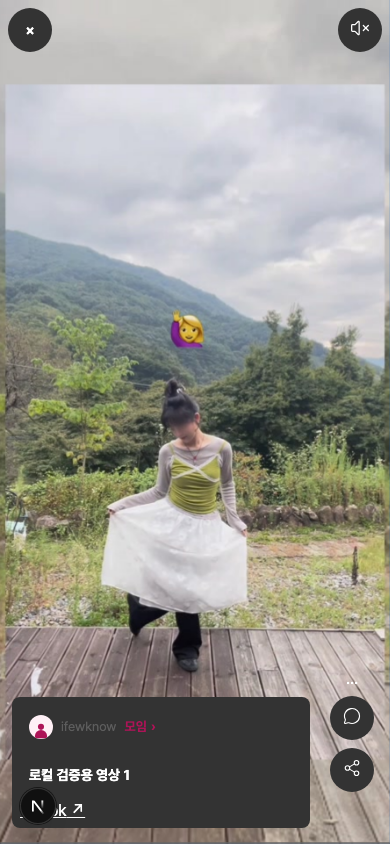
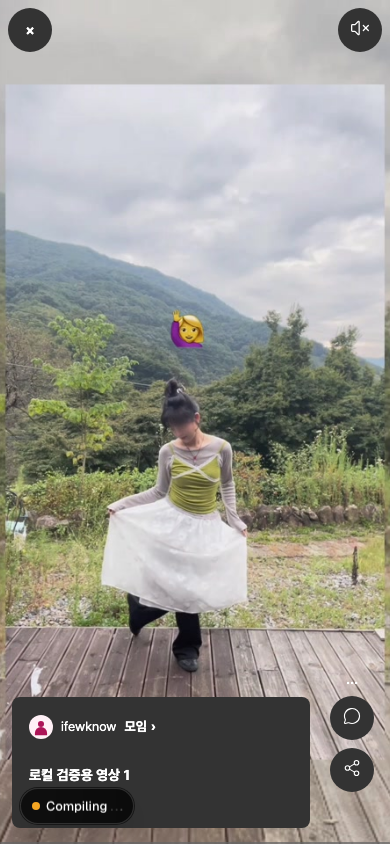
Fit portrait videos to the viewport without stretching

diff --git a/apps/web/features/home/ui/home-shorts.module.css b/apps/web/features/home/ui/home-shorts.module.css
@@ -116,3 +116,9 @@
 .feedCaption a,.feedCaption button { color:inherit; }
 .feedCaption button[aria-expanded=true] { max-height:35dvh; overflow:auto; }
 .expandedCaption { max-height:35dvh; overflow:auto; overscroll-behavior:contain; white-space:pre-wrap; overflow-wrap:anywhere; }
+.slide { container-type:size; overflow:hidden; }
+.slide .mediaFrame iframe { position:absolute; left:50%; top:50%; width:max(100cqw,56.25cqh); height:max(100cqh,177.7778cqw); transform:translate(-50%,-50%); }
+.feedCaption,.feedRail { z-index:1; }
+.feedCaption { background:var(--color-shortform-control); }
+.feedCaption .viewerCreatorLink,.feedCaption button { justify-content:start; min-height:var(--min-target); background:transparent; color:var(--color-surface); }
+.feedCaption .creatorName,.feedCaption .creatorGo { color:inherit; }

diff --git a/DESIGN.md b/DESIGN.md
@@ -2867,3 +2867,4 @@ D-C token ownership: `FanHeading variant="campaign"` owns the 18px/700 mobile an
 HEADER-TIER-COMPACT-1120 · 모바일 두 줄 배치를 한 줄로 변경한다. 하트·등급·포인트 링크는 오른쪽 도구 바로 앞에서 내용 폭만 차지하며 최대 182px이다. 남은 실제 폭에 맞춰 등급 글자가 먼저 줄고 전체 등급과 정확한 잔액은 링크의 접근성 이름에 제공한다.
 
 2026-11-21 숏폼 피드는 사용자가 선택한 영상부터 전체 높이로 열고 현재 영상만 자동 재생한다. 하단에는 원문과 크리에이터를, 오른쪽에는 반응과 소리 조절을 배치한다. 목록 뷰어의 기존 수동 재생 규칙은 피드 밖에서 적용한다.
+세로 피드에서 영상 iframe은 9:16 원본 비율을 유지한 채 화면을 채우고 양옆을 중심 기준으로 자른다. 아래쪽 단색 컨트롤 면 위에 원문과 크리에이터를 배치한다.
